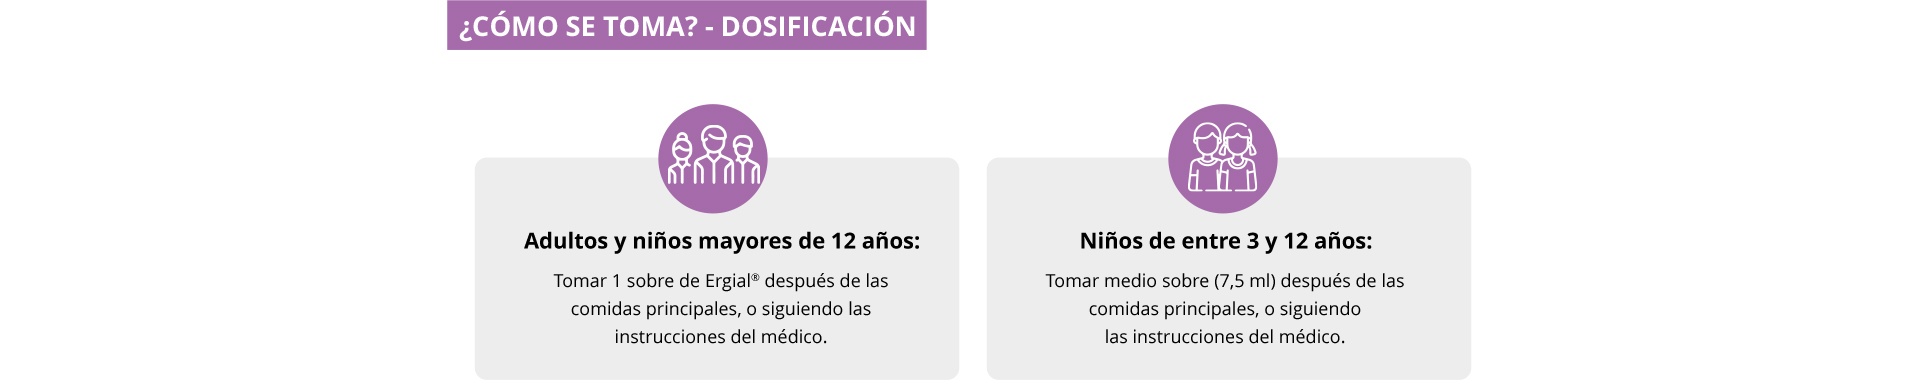
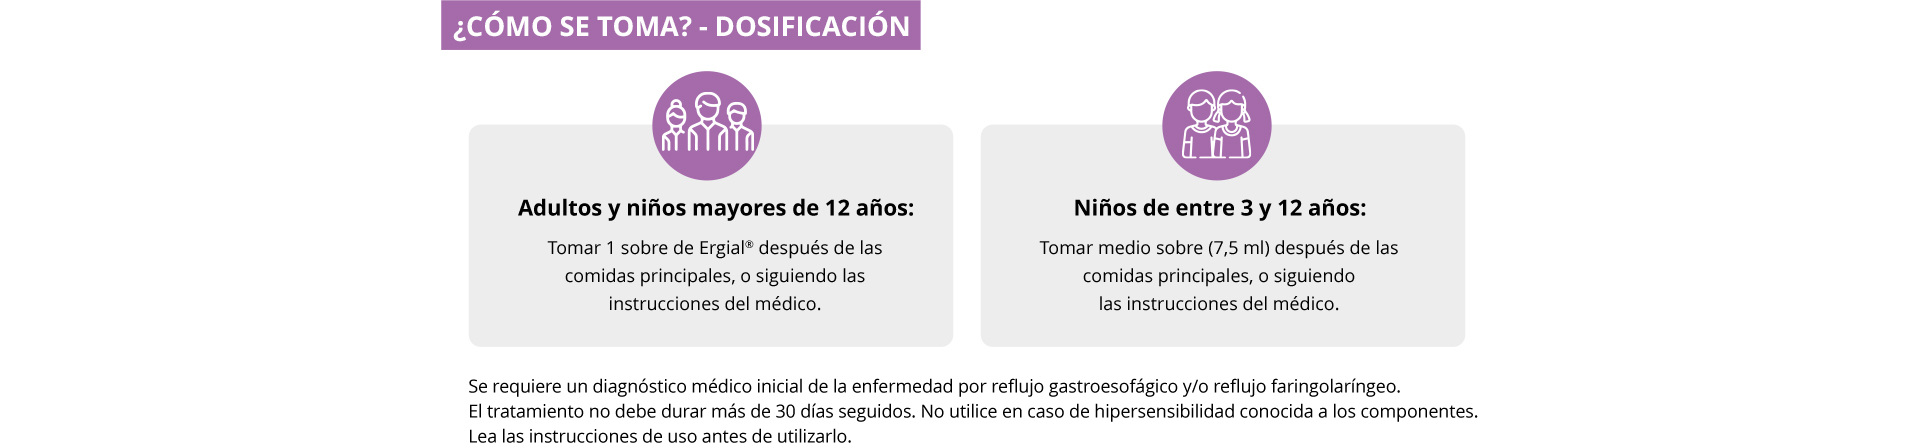
CPS changes

Changed region(s): [[0.25, 0.6079, 0.7812, 1.0], [0.2188, 0.0, 0.5, 0.5789], [0.5312, 0.1447, 0.75, 0.5789]]

diff --git a/index.html b/index.html
@@ -180,9 +180,9 @@
             text-decoration: none;
             font-size: 0.9rem;
         }
-        footer{
+        /* footer{
             margin-bottom: 1.5rem!important;
-        }
+        } */
         
         .btn-cinfa {
             --bs-btn-bg: #a56baa;
@@ -324,9 +324,12 @@
 
     <section class="my-5 ">
         <div class="container ">
-            <div id="queEs">
+            <div id="queEs" class="text-center">
                 <img src="images/cinfa/erialQueEs.jpg" alt=" " class="img-fluid">
 
+                <a href="assets/prospecto.pdf" target="_blank" class="btn btn-large btn-cinfa mt-5 mb-4">
+                    INSTRUCCIONES DE USO
+                </a>
             </div>
             <div id="paraQueSirve" class="mt-4">
                 <img src="images/cinfa/paraQueSirve.jpg" alt=" " class="img-fluid">
@@ -343,7 +346,7 @@
             <div id="comoSeToma" class="mt-5 text-center">
                 <img src="images/cinfa/comoTomar.jpg" alt=" " class="img-fluid">
                 <a href="assets/prospecto.pdf" target="_blank" class="btn btn-large btn-cinfa mt-5 mb-4">
-                    VER PROSPECTO
+                    INSTRUCCIONES DE USO
                 </a>
             </div>
             <div id="preguntasFrecuentes" class="my-4">
@@ -355,6 +358,17 @@
             </div>
         </div>
     </section>
+
+        <div class="row" style="background-color:#32b44a ;">
+            <div class="text-center d-inline-flex justify-content-center">
+                <div>
+                    <img src="images/cinfa/faldonIcon.png" height="40" alt="" srcset="">
+                </div>
+                <div class="pt-2 text-white">
+                    Este producto sanitario tiene efectos secundarios y/o contraindicaciones, lea el etiquetado y las instrucciones de uso antes de utilizarlo. CPS-PS0000-00/22-NA
+                </div>
+            </div>
+        </div>
 
 
     <footer class="p-4 text-white" style="background-color: #7e3c89; color:#fff ">
@@ -420,7 +434,7 @@
             </div>
 
         </footer>
-        <div class="row" style="background-color:#32b44a ;" id="CPS">
+        <!-- <div class="row" style="background-color:#32b44a ;" id="CPS">
             <div class="text-center d-inline-flex justify-content-center">
                 <div>
                     <img src="images/cinfa/faldonIcon.png" height="40" alt="" srcset="">
@@ -429,7 +443,7 @@
                     Este producto sanitario tiene efectos secundarios y/o contraindicaciones, lea el etiquetado y las instrucciones de uso antes de utilizarlo. CPS-PS0000-00/22-NA
                 </div>
             </div>
-        </div>
+        </div> -->
 
 
     <button type="button" class="btn btn-danger btn-floating btn-lg" id="btn-back-to-top">

diff --git a/cinfa-ayudasDiagnostico.html b/cinfa-ayudasDiagnostico.html
@@ -250,17 +250,6 @@
         </div>
     </section>
 
-    <div class="row" style="background-color:#32b44a ;">
-        <div class="text-center d-inline-flex justify-content-center">
-            <div>
-                <img src="images/cinfa/faldonIcon.png" height="40" alt="" srcset="">
-            </div>
-            <div class="pt-2 text-white">
-                Este producto sanitario tiene efectos secundarios y/o contraindicaciones, lea el etiquetado y las instrucciones de uso antes de utilizarlo. CPS-PS0000-00/22-NA
-            </div>
-        </div>
-    </div>
-
     <footer class="p-4 text-white" style="background-color: #7e3c89; color:#fff ">
         <div class="container">
             <div class="row">

diff --git a/cinfa-mateiralesPacientes.html b/cinfa-mateiralesPacientes.html
@@ -242,17 +242,6 @@
         </div>
     </section>
 
-    <div class="row" style="background-color:#32b44a ;">
-        <div class="text-center d-inline-flex justify-content-center">
-            <div>
-                <img src="images/cinfa/faldonIcon.png" height="40" alt="" srcset="">
-            </div>
-            <div class="pt-2 text-white">
-                Este producto sanitario tiene efectos secundarios y/o contraindicaciones, lea el etiquetado y las instrucciones de uso antes de utilizarlo. CPS-PS0000-00/22-NA
-            </div>
-        </div>
-    </div>
-
     <footer class="p-4 text-white" style="background-color: #7e3c89; color:#fff ">
         <div class="container">
             <div class="row">

diff --git a/cinfa-evidenciaClinica.html b/cinfa-evidenciaClinica.html
@@ -303,16 +303,6 @@
             </button>
         </div>
     </section>
-    <div class="row" style="background-color:#32b44a ;">
-        <div class="text-center d-inline-flex justify-content-center">
-            <div>
-                <img src="images/cinfa/faldonIcon.png" height="40" alt="" srcset="">
-            </div>
-            <div class="pt-2 text-white">
-                Este producto sanitario tiene efectos secundarios y/o contraindicaciones, lea el etiquetado y las instrucciones de uso antes de utilizarlo. CPS-PS0000-00/22-NA
-            </div>
-        </div>
-    </div>
 
     <footer class="p-4 text-white" style="background-color: #7e3c89; color:#fff ">
         <div class="container">

diff --git a/cinfa-profesional.html b/cinfa-profesional.html
@@ -314,17 +314,6 @@
         </div>
     </section>
 
-    <div class="row" style="background-color:#32b44a ;">
-        <div class="text-center d-inline-flex justify-content-center">
-            <div>
-                <img src="images/cinfa/faldonIcon.png" height="40" alt="" srcset="">
-            </div>
-            <div class="pt-2 text-white">
-                Este producto sanitario tiene efectos secundarios y/o contraindicaciones, lea el etiquetado y las instrucciones de uso antes de utilizarlo. CPS-PS0000-00/22-NA
-            </div>
-        </div>
-    </div>
-
 
     <footer class="p-4 text-white" style="background-color: #7e3c89; color:#fff ">
         <div class="container">
